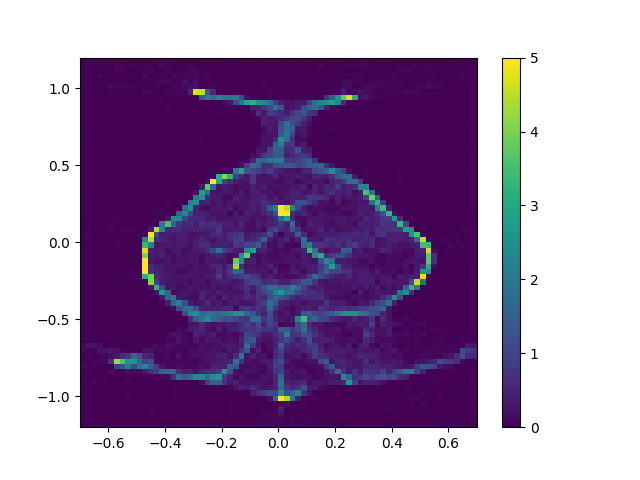
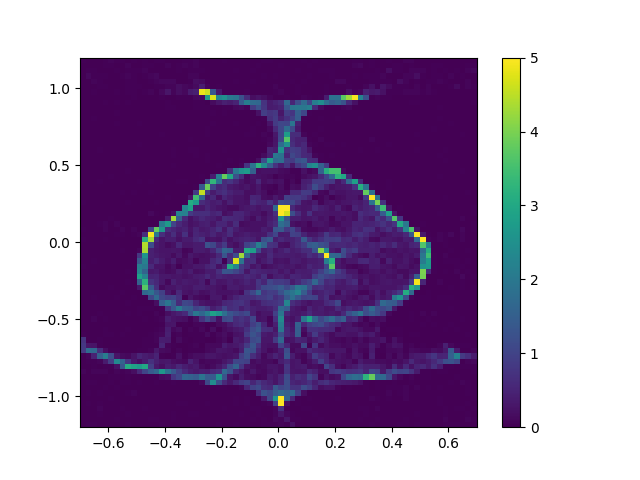
generic commit

diff --git a/scripts/transport/fit_kernel.py b/scripts/transport/fit_kernel.py
@@ -143,7 +143,7 @@ def dict_to_np(dict):
     return dict
 
 
-def unif_boost_exp(Y_gen, X_gen = None, exp_name= 'exp', diff_map =  geo_diffs,  N = 500, n_bins = 30,
+def unif_boost_exp(Y_gen, X_gen = None, exp_name= 'exp', diff_map =  boosted_geo_diffs,  N = 500, n_bins = 30,
                    plt_range = None, t_iter = 401, diff_quantiles = [0.0, 0.4], vmax = None, q = 0, s = .75):
     save_dir = f'../../data/kernel_transport/{exp_name}'
 
@@ -320,7 +320,7 @@ def spiral_exp(N= 1500, diff_map = boosted_geo_diffs):
     os.system(f'echo "vanilla: {mmd_vanilla} ,unif: {mmd_unif}, opt: {mmd_opt}" > {save_dir}/mmd_results.txt ')
 
 
-def elden_exp(N = 8000, diff_map = boosted_geo_diffs):
+def elden_exp(N = 10000, diff_map = geo_diffs):
     plt_range = [[-1, 1], [-1.2, 1.2]]
     vmax = 5
     Y_gen = sample_elden_ring
@@ -431,8 +431,7 @@ def circle_comparison_exp(q = 0, diff_map = boosted_geo_diffs):
 
 
 def run():
-   elden_exp()
-   bambdad_exp()
+    elden_exp()
 
 if __name__=='__main__':
     run()
